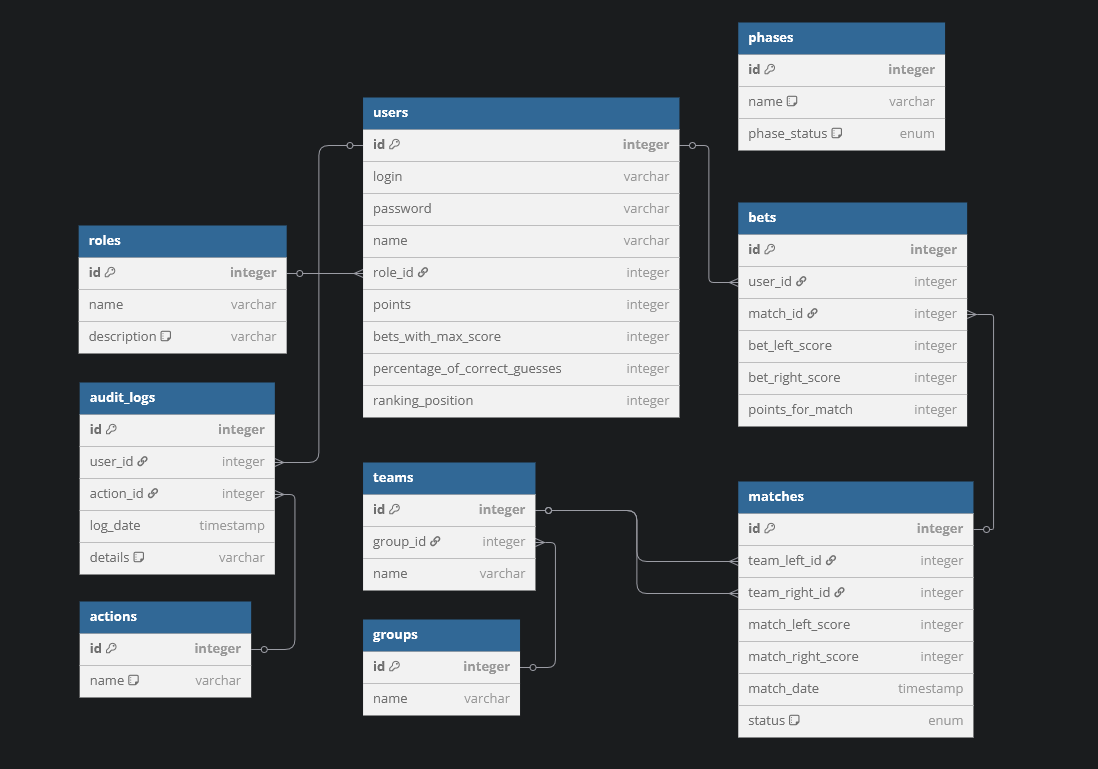
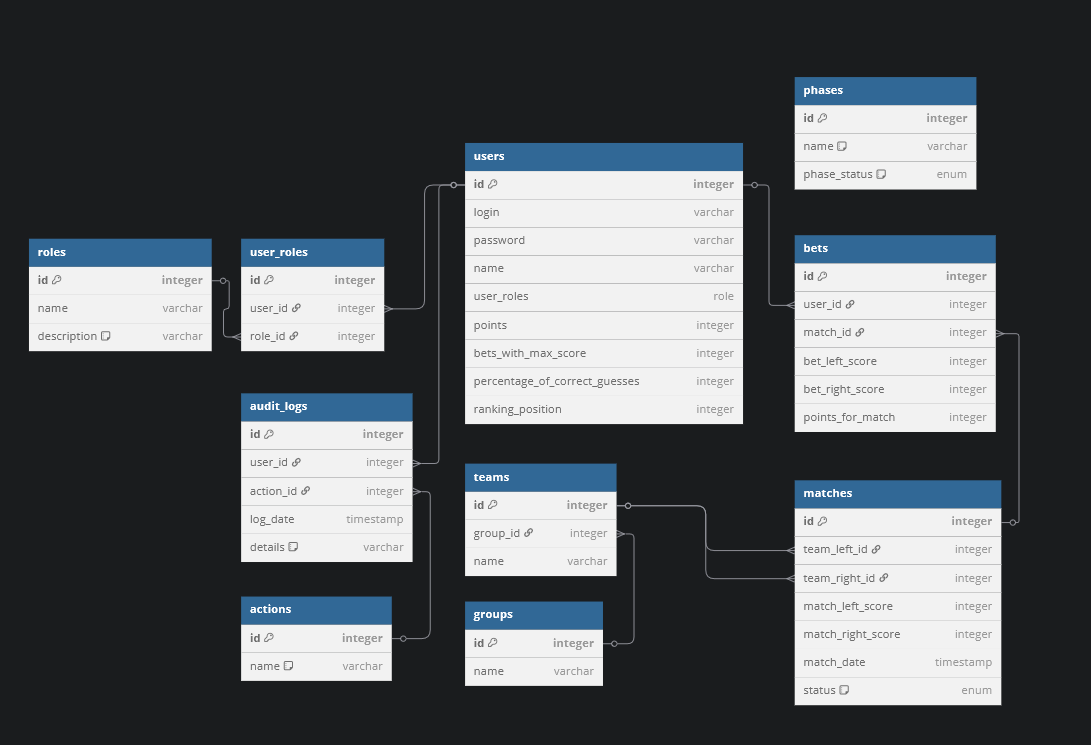
First version for models and udpated db schema

diff --git a/src/main/java/home/match_betting_server/users/domain/User.java b/src/main/java/home/match_betting_server/users/domain/User.java
@@ -1,0 +1,43 @@
+package home.match_betting_server.users.domain;
+
+import jakarta.persistence.*;
+import lombok.Getter;
+import lombok.NoArgsConstructor;
+import lombok.Setter;
+
+import java.util.HashSet;
+import java.util.Set;
+
+@Entity
+@Table(name = "users")
+@Getter
+@Setter
+@NoArgsConstructor
+public class User {
+    @Id @GeneratedValue(strategy = GenerationType.IDENTITY)
+    private Long id;
+
+    @Column(nullable = false, unique = true)
+    private String login;
+
+    @Column(nullable = false)
+    private String password;
+
+    private String name;
+
+    @ManyToMany(fetch = FetchType.LAZY)
+    @JoinTable(
+            name = "user_roles",
+            joinColumns = @JoinColumn(name = "user_id"),
+            inverseJoinColumns = @JoinColumn(name = "role_id")
+    )
+    private Set<Role> roles = new HashSet<>();
+
+    private Integer points = 0;
+
+    private Integer betsWithMaxScore = 0;
+
+    private Integer percentageOfCorrectGuesses = 0;
+
+    private Integer rankingPosition = 0;
+}

diff --git a/src/main/java/home/match_betting_server/matches/domain/Match.java b/src/main/java/home/match_betting_server/matches/domain/Match.java
@@ -1,0 +1,35 @@
+package home.match_betting_server.matches.domain;
+
+import home.match_betting_server.teams.domain.Team;
+import jakarta.persistence.*;
+import lombok.Getter;
+import lombok.NoArgsConstructor;
+import lombok.Setter;
+
+import java.time.LocalDateTime;
+
+@Entity
+@Table(name = "matches")
+@Getter
+@Setter
+@NoArgsConstructor
+public class Match {
+    @Id @GeneratedValue(strategy = GenerationType.IDENTITY)
+    private Long id;
+
+    @ManyToOne(fetch = FetchType.LAZY)
+    @JoinColumn(name = "team_left_id")
+    private Team teamLeft;
+
+    @ManyToOne(fetch = FetchType.LAZY)
+    @JoinColumn(name = "team_right_id")
+    private Team teamRight;
+
+    private Integer leftScore;
+    private Integer rightScore;
+    private LocalDateTime matchDate;
+
+    @Enumerated(EnumType.STRING)
+    @Column(nullable = false)
+    private MatchStatus matchStatus = MatchStatus.SCHEDULED;
+}

diff --git a/src/main/java/home/match_betting_server/bets/domain/Bet.java b/src/main/java/home/match_betting_server/bets/domain/Bet.java
@@ -1,0 +1,34 @@
+package home.match_betting_server.bets.domain;
+
+import home.match_betting_server.matches.domain.Match;
+import home.match_betting_server.users.domain.User;
+import jakarta.persistence.*;
+import lombok.Getter;
+import lombok.NoArgsConstructor;
+import lombok.Setter;
+
+@Entity
+@Table(name = "bets")
+@Getter
+@Setter
+@NoArgsConstructor
+public class Bet {
+    @Id @GeneratedValue(strategy = GenerationType.IDENTITY)
+    private Long id;
+
+    @ManyToOne(fetch = FetchType.LAZY)
+    @JoinColumn(name = "user_id")
+    private User user;
+
+    @ManyToOne(fetch = FetchType.LAZY)
+    @JoinColumn(name = "match_id")
+    private Match match;
+
+    @Column(nullable = false)
+    private Integer betLeftScore;
+
+    @Column(nullable = false)
+    private Integer betRightScore;
+
+    private Integer pointsForBet = 0;
+}

diff --git a/src/main/java/home/match_betting_server/audit_logs/domain/AuditLog.java b/src/main/java/home/match_betting_server/audit_logs/domain/AuditLog.java
@@ -1,0 +1,33 @@
+package home.match_betting_server.audit_logs.domain;
+
+import home.match_betting_server.users.domain.User;
+import jakarta.persistence.*;
+import lombok.Getter;
+import lombok.NoArgsConstructor;
+import lombok.Setter;
+
+import java.time.LocalDateTime;
+
+@Entity
+@Table(name = "audit_logs")
+@Getter
+@Setter
+@NoArgsConstructor
+public class AuditLog {
+    @Id @GeneratedValue(strategy = GenerationType.IDENTITY)
+    private Long id;
+
+    @ManyToOne(fetch = FetchType.LAZY)
+    @JoinColumn(name = "user_id")
+    private User user;
+
+    @ManyToOne(fetch = FetchType.LAZY)
+    @JoinColumn(name = "action_id")
+    private Action action;
+
+    @Column(nullable = false)
+    private LocalDateTime logDate;
+
+    @Column(length = 500)
+    private String details;
+}

diff --git a/src/main/java/home/match_betting_server/users/domain/Role.java b/src/main/java/home/match_betting_server/users/domain/Role.java
@@ -1,0 +1,28 @@
+package home.match_betting_server.users.domain;
+
+import jakarta.persistence.*;
+import lombok.Getter;
+import lombok.NoArgsConstructor;
+import lombok.Setter;
+
+import java.util.HashSet;
+import java.util.Set;
+
+@Entity
+@Table(name = "roles")
+@Getter
+@Setter
+@NoArgsConstructor
+public class Role {
+    @Id @GeneratedValue(strategy = GenerationType.IDENTITY)
+    private Long id;
+
+    @Column(nullable = false, unique = true)
+    private String name;
+
+    private String description;
+
+    @ManyToMany(mappedBy = "roles")
+    private Set<User> users = new HashSet<>();
+
+}

diff --git a/src/main/java/home/match_betting_server/teams/domain/Group.java b/src/main/java/home/match_betting_server/teams/domain/Group.java
@@ -1,0 +1,26 @@
+package home.match_betting_server.teams.domain;
+
+import jakarta.persistence.*;
+import lombok.Getter;
+import lombok.NoArgsConstructor;
+import lombok.Setter;
+
+import java.util.HashSet;
+import java.util.Set;
+
+@Entity
+@Table(name = "groups")
+@Getter
+@Setter
+@NoArgsConstructor
+public class Group {
+    @Id @GeneratedValue(strategy = GenerationType.IDENTITY)
+    private Long id;
+
+    @Column(nullable = false)
+    private String name;
+
+    @OneToMany(mappedBy = "group", fetch = FetchType.LAZY)
+    private Set<Team> teams = new HashSet<>();
+
+}

diff --git a/src/main/java/home/match_betting_server/teams/domain/Team.java b/src/main/java/home/match_betting_server/teams/domain/Team.java
@@ -1,0 +1,23 @@
+package home.match_betting_server.teams.domain;
+
+import jakarta.persistence.*;
+import lombok.Getter;
+import lombok.NoArgsConstructor;
+import lombok.Setter;
+
+@Entity
+@Table(name = "teams")
+@Getter
+@Setter
+@NoArgsConstructor
+public class Team {
+    @Id @GeneratedValue(strategy = GenerationType.IDENTITY)
+    private Long id;
+
+    @Column(nullable = false)
+    private String name;
+
+    @ManyToOne(fetch = FetchType.LAZY)
+    @JoinColumn(name = "group_id")
+    private Group group;
+}

diff --git a/src/main/java/home/match_betting_server/audit_logs/domain/Action.java b/src/main/java/home/match_betting_server/audit_logs/domain/Action.java
@@ -1,0 +1,22 @@
+package home.match_betting_server.audit_logs.domain;
+
+import jakarta.persistence.*;
+import lombok.Getter;
+import lombok.NoArgsConstructor;
+import lombok.Setter;
+
+@Entity
+@Table(name = "actions")
+@Getter
+@Setter
+@NoArgsConstructor
+public class Action {
+    @Id @GeneratedValue(strategy = GenerationType.IDENTITY)
+    private Long id;
+
+    @Column(nullable = false)
+    private String name;
+
+    @Column(nullable = false)
+    private String description;
+}

diff --git a/src/main/java/home/match_betting_server/phases/domain/Phase.java b/src/main/java/home/match_betting_server/phases/domain/Phase.java
@@ -1,0 +1,20 @@
+package home.match_betting_server.phases.domain;
+
+import jakarta.persistence.*;
+import lombok.Getter;
+import lombok.NoArgsConstructor;
+import lombok.Setter;
+
+@Entity
+@Table(name = "phases")
+@Getter
+@Setter
+@NoArgsConstructor
+public class Phase {
+    @Id @GeneratedValue(strategy = GenerationType.IDENTITY)
+    private Long id;
+
+    private String name;
+
+    private PhaseStatus phaseStatus;
+}

diff --git a/src/main/java/home/match_betting_server/phases/domain/PhaseStatus.java b/src/main/java/home/match_betting_server/phases/domain/PhaseStatus.java
@@ -1,0 +1,5 @@
+package home.match_betting_server.phases.domain;
+
+public enum PhaseStatus {
+    ACCOUNTS_CREATION, MATCHES_CREATION, USER_BETS_CREATION, GAMEPLAY
+}

diff --git a/src/main/java/home/match_betting_server/matches/domain/MatchStatus.java b/src/main/java/home/match_betting_server/matches/domain/MatchStatus.java
@@ -1,0 +1,5 @@
+package home.match_betting_server.matches.domain;
+
+public enum MatchStatus {
+    SCHEDULED, IN_PROGRESS, FINISHED
+}

diff --git a/src/main/java/home/match_betting_server/audit_logs/LogController.java b/src/main/java/home/match_betting_server/audit_logs/LogController.java
@@ -1,0 +1,4 @@
+package home.match_betting_server.audit_logs;
+
+public class LogController {
+}
